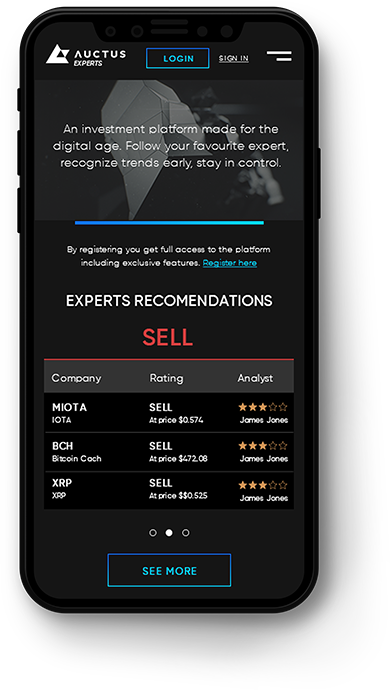
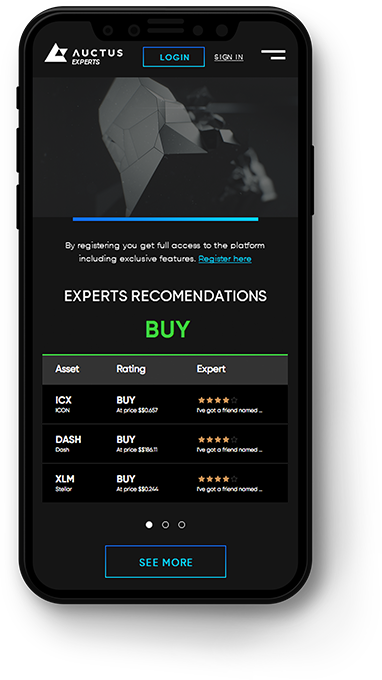
text and images adjusments

diff --git a/Web/src/app/components/hot-site/be-an-expert/be-an-expert.component.html b/Web/src/app/components/hot-site/be-an-expert/be-an-expert.component.html
@@ -9,7 +9,7 @@
     <div class="global-container">
       <div class="itens-list" fxFlex.gt-sm="46" fxFlex.lt-md="100" fxFlexOffset.gt-sm="54" fxFlexOffset.lt-md="0">
         <div fxLayout="row" fxLayoutAlign="start start"><fa-icon icon="chevron-right" size="xs"></fa-icon><span>Become an Expert and monetize your trading know how</span></div>
-        <div fxLayout="row" fxLayoutAlign="start start"><fa-icon icon="chevron-right" size="xs"></fa-icon><span>We’ll help build your audience while increasing your reach for monetization</span></div>
+        <div fxLayout="row" fxLayoutAlign="start start"><fa-icon icon="chevron-right" size="xs"></fa-icon><span>Build your audience, while increasing your reach for monetization</span></div>
         <div fxLayout="row" fxLayoutAlign="start start"><fa-icon icon="chevron-right" size="xs"></fa-icon><span>Lucrative commissions just by giving trading advice</span></div>
         <div fxLayout="row" fxLayoutAlign="start start"><fa-icon icon="chevron-right" size="xs"></fa-icon><span>No Joining fees for Experts</span></div>
         <div fxLayout="row" fxLayoutAlign="start start"><fa-icon icon="chevron-right" size="xs"></fa-icon><span>Quick and easy startup with the largest bonuses for early Experts</span></div>
@@ -33,12 +33,12 @@
       <div class="separator"></div>
       <div fxLayout="column" fxLayoutAlign="space-around center" >
         <div class="profit-item-title">Fast Start Bonus</div>
-        <div class="profit-item-description">Earn even more just by onboarding enough users within your first 30 days of enrollment</div>
+        <div class="profit-item-description">Earn even more, just by onboarding enough users within your first 30 days of enrollment</div>
       </div>
       <div class="separator"></div>
       <div fxLayout="column" fxLayoutAlign="space-around center" >
         <div class="profit-item-title">Top Influencers</div>
-        <div class="profit-item-description">Monetize your trading voice just by interacting with your base</div>
+        <div class="profit-item-description">Monetize your trading voice by interacting with your base</div>
       </div>
     </div>
   </div>
@@ -65,24 +65,24 @@
           Blog
       </div>
       <div class="blog-cards" fxLayout.gt-sm="row" fxLayout.lt-md="column" fxLayoutAlign="center center" fxLayoutGap.gt-sm="20px" fxLayoutGap.lt-md="4px">
-        <a href="https://blog.auctus.org/auctus-team-member-interview-vinicius-melo-fec35ae3785e?source=rss----9c75dfa81867---4" target="_blank">
+        <a href="https://blog.auctus.org/auctus-team-member-interview-vinicius-melo-fec35ae3785e" target="_blank">
           <div class="news-card">
               <div class="img-div" style="background: url(https://cdn-images-1.medium.com/max/752/1*fYMqrtny4bdcu5xMayg97Q.png)"></div>
-              <div class="news-card-title">Auctus Team Member Interview — Vinicius Melo</div>
+              <div class="news-card-title">Read what our Head of Strategy, Vinicius, thinks will be first industry disrupted by blockchain</div>
               <div class="news-card-date">SEP 21</div>
           </div>
         </a>
-        <a href="https://blog.auctus.org/technical-post-3-the-experts-ranking-c89b27b69333?source=rss----9c75dfa81867---4" target="_blank">
+        <a href="https://blog.auctus.org/technical-post-3-the-experts-ranking-c89b27b69333" target="_blank">
           <div class="news-card">
               <div class="img-div" style="background: url(https://cdn-images-1.medium.com/max/1024/0*RVu-LuY4OnIOBRLt)"></div>
-              <div class="news-card-title">Technical Post #3 — The Expert’s Ranking</div>
+              <div class="news-card-title">Learn the details on how Expert’s are ranked and rewarded</div>
               <div class="news-card-date">SEP 13</div>
           </div>
         </a>
-        <a href="https://blog.auctus.org/auctus-june-announcements-auc-exchange-listings-new-team-member-new-office-platform-update-9ff6fd950e93?source=rss----9c75dfa81867---4" target="_blank">
+        <a href="https://blog.auctus.org/auctus-june-announcements-auc-exchange-listings-new-team-member-new-office-platform-update-9ff6fd950e93" target="_blank">
           <div class="news-card">
               <div class="img-div" style="background: url(https://cdn-images-1.medium.com/max/567/0*oHN0R9Dxc7pcsYPn)"></div>
-              <div class="news-card-title">Auctus June Announcements: AUC Exchange Listings, New...</div>
+              <div class="news-card-title">Stay up to date with company and token updates by following our blog</div>
               <div class="news-card-date">JUN 23</div>
           </div>
         </a>

diff --git a/Web/src/app/components/hot-site/hot-site.component.html b/Web/src/app/components/hot-site/hot-site.component.html
@@ -1,11 +1,13 @@
 <hotsite-header></hotsite-header>
 <div ngClass.gt-sm="global-container">
   <div class="hotsite-title">An investment platform made for the digital age</div>
-  <img class="hot-site-image" src="./assets/img/Img_Banner.png">
+  <div class="hot-site-image-div">
+    <img fxHide.lt-md class="hot-site-image" src="./assets/img/Img_Banner.png">
+  </div>
 </div>
 <div class="early-access">
   <div class="global-container" fxLayout="row" fxLayoutGap="16px">
-    <img fxHide.lt-md="true" class="hot-site-phone-image" src="./assets/img/Img_Mobile.png">
+    <img class="hot-site-phone-image" src.gt-sm="./assets/img/Img_Mobile.png" src.lt-md="./assets/img/Img_Mobile2.png">
     <div fxLayout="column" class="early-access-content">
       <div class="early-access-description">Follow your favorite expert by tracking their performance and learn trading fundamentals, all while staying in control of your funds.</div>
       <div class="early-access-title">Sign up for early access</div>
@@ -18,9 +20,9 @@
 </div>
 <div>
   <div class="global-container" fxLayout="column" fxLayoutGap="16px">
-    <div class="early-access-content bottom-description">
-        <!-- Lorem ipsum dolor sit amet, consectetur adipisicing elit, sed do eiusmod tempor incididunt ut labore et dolore -->
-    </div> 
+    <!-- <div class="early-access-content bottom-description">
+        Lorem ipsum dolor sit amet, consectetur adipisicing elit, sed do eiusmod tempor incididunt ut labore et dolore
+    </div>  -->
     <div class="itens" fxLayout.gt-sm="row" fxLayoutGap.gt-sm="50px" fxLayoutAlign.gt-sm="center start" fxLayout.lt-md="column" fxLayoutGap.lt-md="20px" fxLayoutAlign.lt-md="center center"  >
       <div fxLayout="column" fxLayoutAlign="center center">
         <div class="icon-wrapper" fxLayoutAlign="center center"><img src="./assets/img/Icon_Graph.png"></div>

diff --git a/Web/src/app/components/hot-site/hot-site.component.css b/Web/src/app/components/hot-site/hot-site.component.css
@@ -13,14 +13,16 @@
     max-width: 760px;
     width: calc(100% - 40px);
 }
-  
+
+
+
 .hot-site-image {
-    width: 100%; 
+    width: 100%;
     background-color: #b7b7b7;
 }
 
 .hot-site-phone-image{
-    margin-top: -130px;
+    margin-top: -170px;
     margin-left: 60px;
     position: absolute;
 }
@@ -139,6 +141,23 @@
         margin-top: -33px;
     }
 
+    .hotsite-title{
+        font-size: 24px;
+    }
+
+    .hot-site-image-div{
+        background-image: url('/assets/img/Img_Banner.png');
+        width: 100%;
+        height: 270px;
+        background-position: center;
+    }
+
+    .hot-site-phone-image{
+        margin-top: -200px;
+        margin-left: calc(50% - 100px);
+        position: absolute;
+    }
+
     .early-access{
         background-color: #1f1f1f;
         margin-top: -4px;
@@ -148,13 +167,13 @@
     .early-access-description{
         max-width: 516px;
         width: calc(100% - 40px);
-        font-size: 18px;
+        font-size: 14px;
         margin-left: auto;
         margin-right: auto;
     }
     
     .early-access-title{
-        font-size: 28px;
+        font-size: 20px;
     }
     
     .early-access-content{
@@ -162,6 +181,7 @@
         margin-right: auto;
         text-align: center;
         margin-bottom: 20px;
+        margin-top: 90px;
     }
 
     .itens{
@@ -181,11 +201,11 @@
     }
     
     .item-title{
-        font-size: 22px;
+        font-size: 20px;
     }
     
     .item-description{
-        font-size: 13px;
+        font-size: 16px;
     }
     
     .referral-title{
@@ -193,7 +213,7 @@
     }
     
     .referral-subtitle {
-        font-size: 14px;
+        font-size: 18px;
     }
     
     .referral-description{

diff --git a/Web/src/app/components/hot-site/be-an-expert/be-an-expert.component.css b/Web/src/app/components/hot-site/be-an-expert/be-an-expert.component.css
@@ -125,7 +125,7 @@
 .news-card {
     width: 315px;
     max-width: 100%;
-    height: 329px;
+    height: 350px;
     border-radius: 2px;
     box-shadow: 0 0 15px 2px rgba(0, 0, 0, 0.1);
     display: inline-block;
@@ -140,11 +140,11 @@
     color: #393939;
     text-align: left;
     margin: 10px 20px;
-    max-height: 78px;
-    height: 78px;
+    max-height: 100px;
+    height: 100px;
     line-height: 1.18;
     display: -webkit-box;
-    -webkit-line-clamp: 3;
+    -webkit-line-clamp: 4;
     -webkit-box-orient: vertical; 
     overflow: hidden;
     text-overflow: ellipsis;  

diff --git a/Web/src/app/components/hot-site/hotsite-header/hotsite-header.component.css b/Web/src/app/components/hot-site/hotsite-header/hotsite-header.component.css
@@ -6,6 +6,8 @@
     top: 0;
     left: 0;
     z-index: 1;
+    display: flex;
+    align-items: center;
 }
 
 .header-container{
